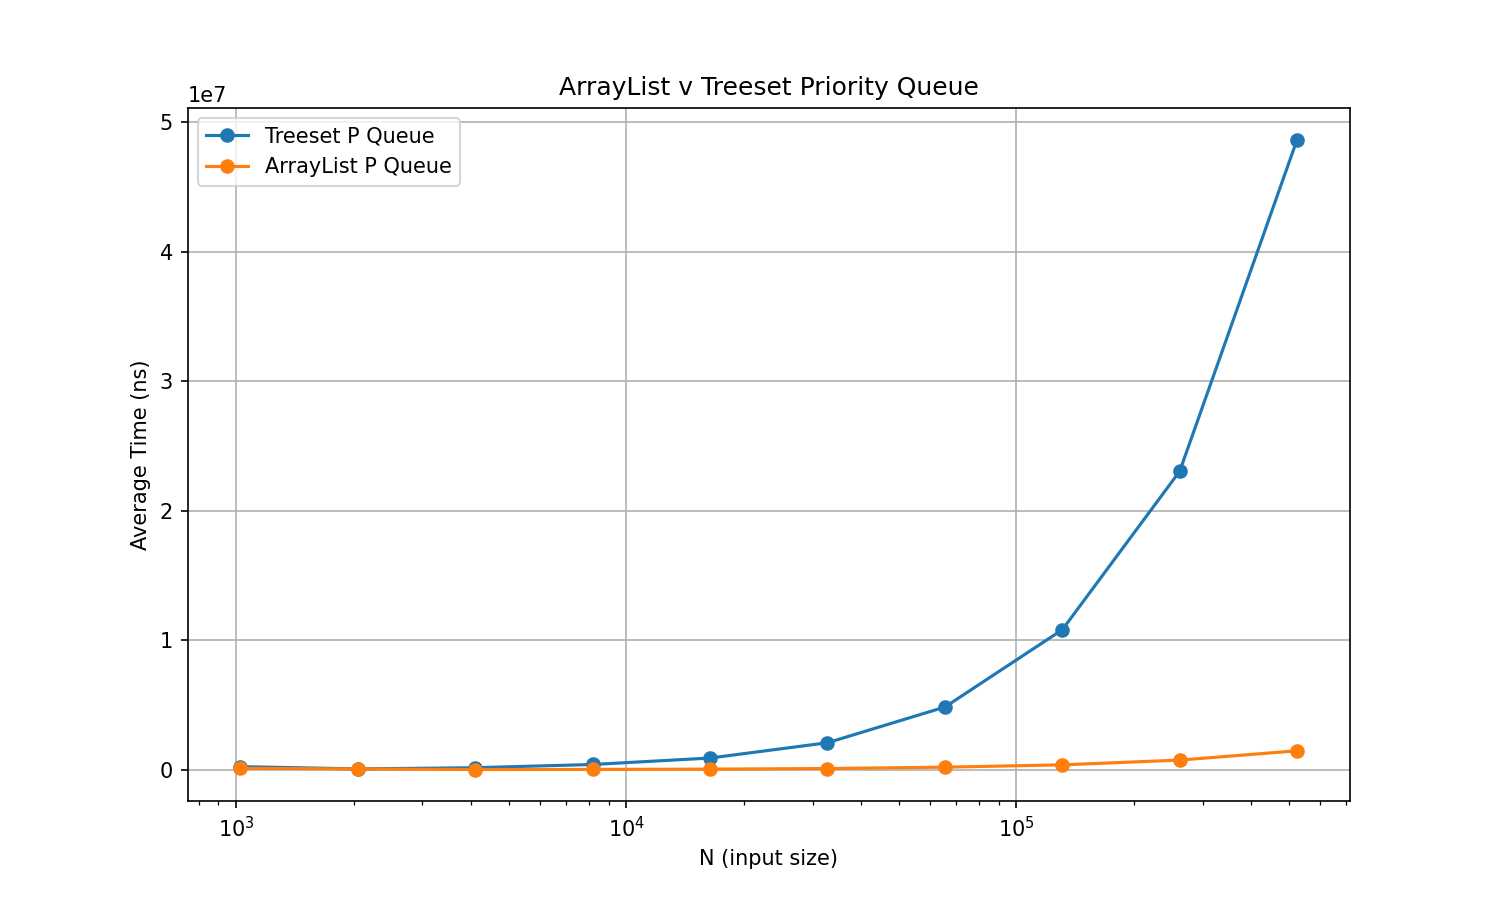
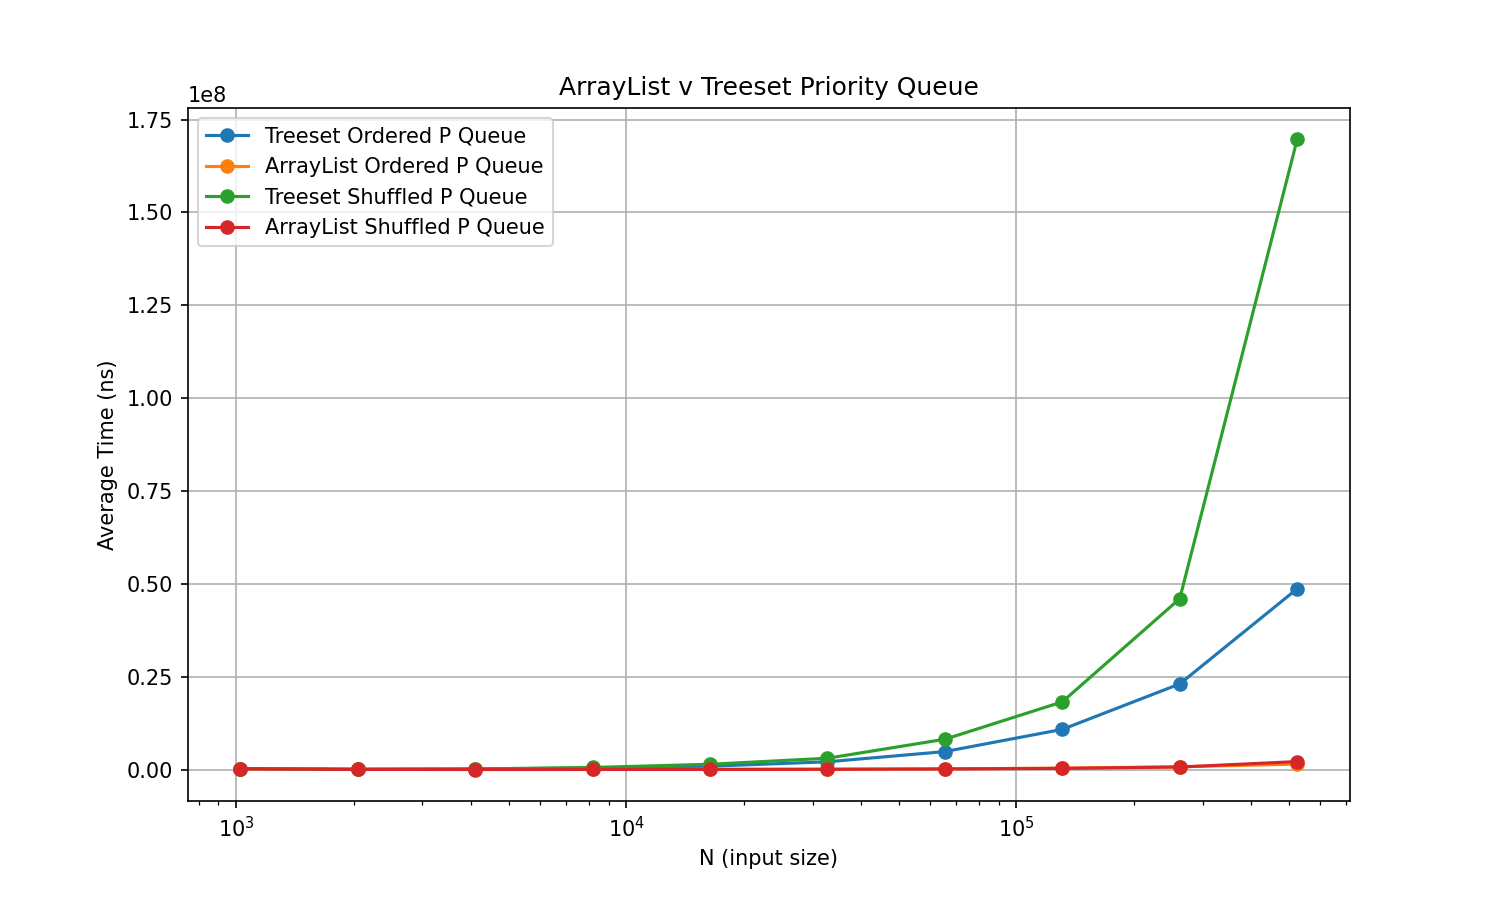
Completed Lab 6.

diff --git a/CS6012/Day 9/PriorityQueue/src/lab06/ArrayListPQueue.java b/CS6012/Day 9/PriorityQueue/src/lab06/ArrayListPQueue.java
@@ -3,6 +3,7 @@ package lab06;
 import java.util.ArrayList;
 import java.util.Comparator;
 
+import static java.util.Collections.min;
 import static java.util.Collections.swap;
 
 public class ArrayListPQueue<E extends Comparable<? super E>> implements PriorityQueue<E> {
@@ -44,33 +45,34 @@ public class ArrayListPQueue<E extends Comparable<? super E>> implements Priorit
     }
 
     public void percolateDown(int index) {
+//        System.out.println("current size: " + arrayList.size());
+
         int minIndex = MinFinder(index);
         if(arrayList.get(index).compareTo(arrayList.get(minIndex)) > 0) {
             swap(arrayList, index, minIndex);
             percolateDown(minIndex);
         }
-
-//        if(left.compareTo(root) < 0 && right.compareTo(root) < arrayList.size()) {
-//            if (rightChild > leftChild) {
-//
-//                percolateDown(rightChild);
-//            } else {
-//                swap(arrayList, index, leftChild);
-//                percolateDown(leftChild);
-//            }
-//        }
-        else {
-            return;
-        }
     }
 
-    public void percolateUp(int item) {
-        int parentIndex = 2*item-1;
-        E itemVal = arrayList.get(item);
-        E parent = arrayList.get(parentIndex);
+    private int MaxFinder(int index) {
+        int parentIndex = 2*index-1;
+        int maxIndex = index;
+        if(parentIndex < 0) {
+            E itemVal = arrayList.get(index);
+        } else if(parentIndex < arrayList.size()) {
+            E parent = arrayList.get(parentIndex);
+            if(parent.compareTo(arrayList.get(maxIndex)) < 0) {
+                maxIndex = parentIndex;
+            }
+        }
+        return maxIndex;
+    }
 
-        while(parent.compareTo(itemVal) > 0) {
-            swap(arrayList, item, parentIndex);
+    public void percolateUp(int index) {
+        int maxIndex = MaxFinder(index);
+        if(arrayList.get(index).compareTo(arrayList.get(maxIndex)) > 0) {
+            swap(arrayList, index, maxIndex);
+            percolateUp(maxIndex);
         }
     }
 
@@ -82,12 +84,21 @@ public class ArrayListPQueue<E extends Comparable<? super E>> implements Priorit
 
     @Override
     public E removeMin() {
-        E removedValue = arrayList.get(0);
-        arrayList.removeFirst();
-        arrayList.set(0, arrayList.get(arrayList.size()-1));
-        arrayList.removeLast();
-        percolateDown(0);
-        return removedValue;
+        if(arrayList.isEmpty()) {
+            return null;
+        }
+
+        if(arrayList.size() == 1) {
+            return arrayList.remove(0);
+        }
+//        else if(arrayList.size() > 1) {
+            E removedValue = arrayList.getFirst();
+        swap(arrayList, 0, arrayList.size()-1);
+//            arrayList.removeFirst();
+//            arrayList.set(0, arrayList.getLast());
+            arrayList.removeLast();
+            percolateDown(0);
+            return removedValue;
     }
 
     @Override

diff --git a/CS6012/Day 9/PriorityQueue/src/lab06/TreesetPQueueShuffledTiming.java b/CS6012/Day 9/PriorityQueue/src/lab06/TreesetPQueueShuffledTiming.java
@@ -1,0 +1,62 @@
+package lab06;
+
+import java.io.BufferedWriter;
+import java.io.FileWriter;
+import java.io.IOException;
+import java.util.ArrayList;
+import java.util.Collections;
+
+public class TreesetPQueueShuffledTiming extends TimerTemplate {
+    TreesetPQueue<Integer> set = new TreesetPQueue<>();
+    ArrayList<Integer> list = new ArrayList<>();
+
+    public TreesetPQueueShuffledTiming(int[] problemSizes, int timesToLoop) {
+        super(problemSizes, timesToLoop);
+    }
+
+    @Override
+    protected void setup(int n) {
+        list.clear();
+        for (int i = 1; i <= n; i++) {
+            list.add(i);
+        }
+        Collections.shuffle(list);
+    }
+
+    @Override
+    protected void timingIteration(int n) {
+        for (Integer i : list) {
+            set.add(i);
+        }
+    }
+
+    @Override
+    protected void compensationIteration(int n) {
+    }
+
+    public static void main() throws IOException {
+        System.out.println("running");
+        int[] problemSize = new int[10];
+        int index = 0;
+        for (int i = 10; i < 20; i++) {
+            problemSize[index] = (int) (Math.pow(2, i));
+            index++;
+        }
+
+        var timer = new TreesetPQueueShuffledTiming(problemSize, 10);
+        var results = timer.run();
+
+        String fileName = "TreesetPQueueShuffledTiming.csv";
+        String COMMA_DELIMITER = ",";
+        String NEW_LINE_SEPARATOR = "\n";
+
+
+        try (BufferedWriter writer = new BufferedWriter(new FileWriter(fileName))) {
+            writer.write("N" + COMMA_DELIMITER +  "Time(ns)" + NEW_LINE_SEPARATOR);
+            for (var result : results) {
+                writer.write(result.n() + COMMA_DELIMITER + result.avgNanoSecs() + NEW_LINE_SEPARATOR);
+            }
+            writer.flush();
+        }
+    }
+}

diff --git a/CS6012/Day 9/PriorityQueue/src/lab06/ArrayListPQueueShuffledTiming.java b/CS6012/Day 9/PriorityQueue/src/lab06/ArrayListPQueueShuffledTiming.java
@@ -1,0 +1,60 @@
+package lab06;
+
+import java.io.BufferedWriter;
+import java.io.FileWriter;
+import java.io.IOException;
+import java.util.ArrayList;
+import java.util.Collections;
+
+public class ArrayListPQueueShuffledTiming extends TimerTemplate {
+
+    ArrayList<Integer> list = new ArrayList<>();
+
+    public ArrayListPQueueShuffledTiming(int[] problemSizes, int timesToLoop) {
+        super(problemSizes, timesToLoop);
+    }
+
+    @Override
+    protected void setup(int n) {
+        list.clear();
+        for (int i = 1; i <= n; i++) {
+            list.add(i);
+        }
+        Collections.shuffle(list);
+    }
+
+    @Override
+    protected void timingIteration(int n) {
+        ArrayListPQueue<Integer> set = new ArrayListPQueue<>(list);
+    }
+
+    @Override
+    protected void compensationIteration(int n) {
+    }
+
+    public static void main() throws IOException {
+        System.out.println("running");
+        int[] problemSize = new int[10];
+        int index = 0;
+        for (int i = 10; i < 20; i++) {
+            problemSize[index] = (int) (Math.pow(2, i));
+            index++;
+        }
+
+        var timer = new ArrayListPQueueShuffledTiming(problemSize, 10);
+        var results = timer.run();
+
+        String fileName = "ArrayListPQueueShuffledTiming.csv";
+        String COMMA_DELIMITER = ",";
+        String NEW_LINE_SEPARATOR = "\n";
+
+
+        try (BufferedWriter writer = new BufferedWriter(new FileWriter(fileName))) {
+            writer.write("N" + COMMA_DELIMITER +  "Time(ns)" + NEW_LINE_SEPARATOR);
+            for (var result : results) {
+                writer.write(result.n() + COMMA_DELIMITER + result.avgNanoSecs() + NEW_LINE_SEPARATOR);
+            }
+            writer.flush();
+        }
+    }
+}

diff --git a/CS6012/Day 9/PriorityQueue/src/lab06/ArrayListPQueueEmptyTiming.java b/CS6012/Day 9/PriorityQueue/src/lab06/ArrayListPQueueEmptyTiming.java
@@ -1,0 +1,59 @@
+package lab06;
+
+import java.io.BufferedWriter;
+import java.io.FileWriter;
+import java.io.IOException;
+import java.util.ArrayList;
+
+public class ArrayListPQueueEmptyTiming extends TimerTemplate {
+
+    ArrayListPQueue<Integer> list = new ArrayListPQueue<>();
+
+    public ArrayListPQueueEmptyTiming(int[] problemSizes, int timesToLoop) {
+        super(problemSizes, timesToLoop);
+    }
+
+    @Override
+    protected void setup(int n) {
+        for (int i = 1; i <= n; i++) {
+            list.add(i);
+        }
+    }
+
+    @Override
+    protected void timingIteration(int n) {
+        while (!list.isEmpty()) {
+            list.removeMin();
+        }
+    }
+
+    @Override
+    protected void compensationIteration(int n) {
+    }
+
+    public static void main() throws IOException {
+        System.out.println("running");
+        int[] problemSize = new int[10];
+        int index = 0;
+        for (int i = 10; i < 20; i++) {
+            problemSize[index] = (int) (Math.pow(2, i));
+            index++;
+        }
+
+        var timer = new ArrayListPQueueEmptyTiming(problemSize, 10);
+        var results = timer.run();
+
+        String fileName = "ArrayListPQueueEmptyTiming.csv";
+        String COMMA_DELIMITER = ",";
+        String NEW_LINE_SEPARATOR = "\n";
+
+
+        try (BufferedWriter writer = new BufferedWriter(new FileWriter(fileName))) {
+            writer.write("N" + COMMA_DELIMITER +  "Time(ns)" + NEW_LINE_SEPARATOR);
+            for (var result : results) {
+                writer.write(result.n() + COMMA_DELIMITER + result.avgNanoSecs() + NEW_LINE_SEPARATOR);
+            }
+            writer.flush();
+        }
+    }
+}

diff --git a/CS6012/Day 9/PriorityQueue/src/lab06/TreesetPQueueEmptyTiming.java b/CS6012/Day 9/PriorityQueue/src/lab06/TreesetPQueueEmptyTiming.java
@@ -1,0 +1,58 @@
+package lab06;
+
+import java.io.BufferedWriter;
+import java.io.FileWriter;
+import java.io.IOException;
+import java.util.ArrayList;
+
+public class TreesetPQueueEmptyTiming extends TimerTemplate {
+    TreesetPQueue<Integer> set = new TreesetPQueue<>();
+
+    public TreesetPQueueEmptyTiming(int[] problemSizes, int timesToLoop) {
+        super(problemSizes, timesToLoop);
+    }
+
+    @Override
+    protected void setup(int n) {
+        for (int i = 1; i <= n; i++) {
+            set.add(i);
+        }
+    }
+
+    @Override
+    protected void timingIteration(int n) {
+        while (!set.isEmpty()) {
+            set.removeMin();
+        }
+    }
+
+    @Override
+    protected void compensationIteration(int n) {
+    }
+
+    public static void main() throws IOException {
+        System.out.println("running");
+        int[] problemSize = new int[10];
+        int index = 0;
+        for (int i = 10; i < 20; i++) {
+            problemSize[index] = (int) (Math.pow(2, i));
+            index++;
+        }
+
+        var timer = new TreesetPQueueEmptyTiming(problemSize, 10);
+        var results = timer.run();
+
+        String fileName = "TreesetPQueueEmptyTiming.csv";
+        String COMMA_DELIMITER = ",";
+        String NEW_LINE_SEPARATOR = "\n";
+
+
+        try (BufferedWriter writer = new BufferedWriter(new FileWriter(fileName))) {
+            writer.write("N" + COMMA_DELIMITER +  "Time(ns)" + NEW_LINE_SEPARATOR);
+            for (var result : results) {
+                writer.write(result.n() + COMMA_DELIMITER + result.avgNanoSecs() + NEW_LINE_SEPARATOR);
+            }
+            writer.flush();
+        }
+    }
+}

diff --git a/CS6012/Day 9/PriorityQueue/empty_plot_timing.py b/CS6012/Day 9/PriorityQueue/empty_plot_timing.py
@@ -18,10 +18,8 @@ def load_csv(filename):
 def main():
     # The three CSV files generated by your Java code
     files = {
-        "Treeset Ordered P Queue": "TreesetPQueueTiming.csv",
-        "ArrayList Ordered P Queue": "ArrayListPQueueTiming.csv",
-        "Treeset Shuffled P Queue": "TreesetPQueueShuffledTiming.csv",
-        "ArrayList Shuffled P Queue": "ArrayListPQueueShuffledTiming.csv",
+        "Empty Treeset P Queue": "TreesetPQueueEmptyTiming.csv",
+        "Empty ArrayList P Queue": "ArrayListPQueueEmptyTiming.csv",
     }
 
     plt.figure(figsize=(10,6))
@@ -38,12 +36,12 @@ def main():
     plt.xlabel("N (input size)")
     plt.ylabel("Average Time (ns)")
     plt.xscale('log')
-    plt.title("ArrayList v Treeset Priority Queue")
+    plt.title("Empty ArrayList v Empty Treeset Priority Queue")
 
     plt.legend()
     plt.grid(True)
 
-    plt.savefig("ArrayList v Treeset Priority Queue Comparison.png", dpi = 150)
+    plt.savefig("Empty ArrayList v Empty Treeset Priority Queue Comparison.png", dpi = 150)
     plt.show()
     plt.close()
 
